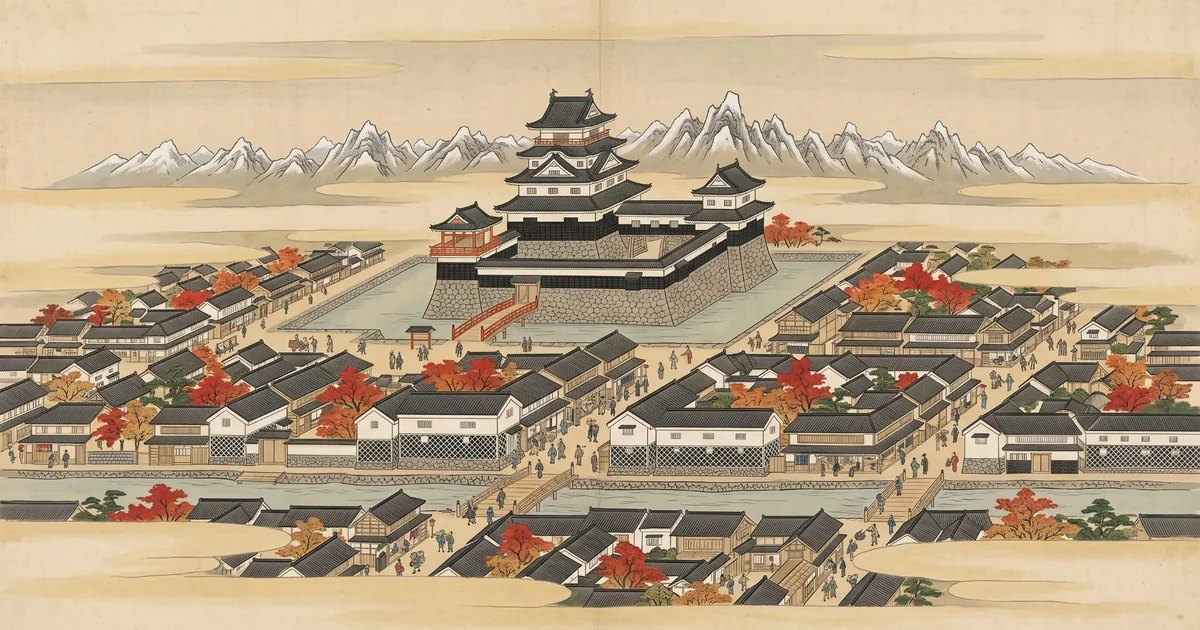
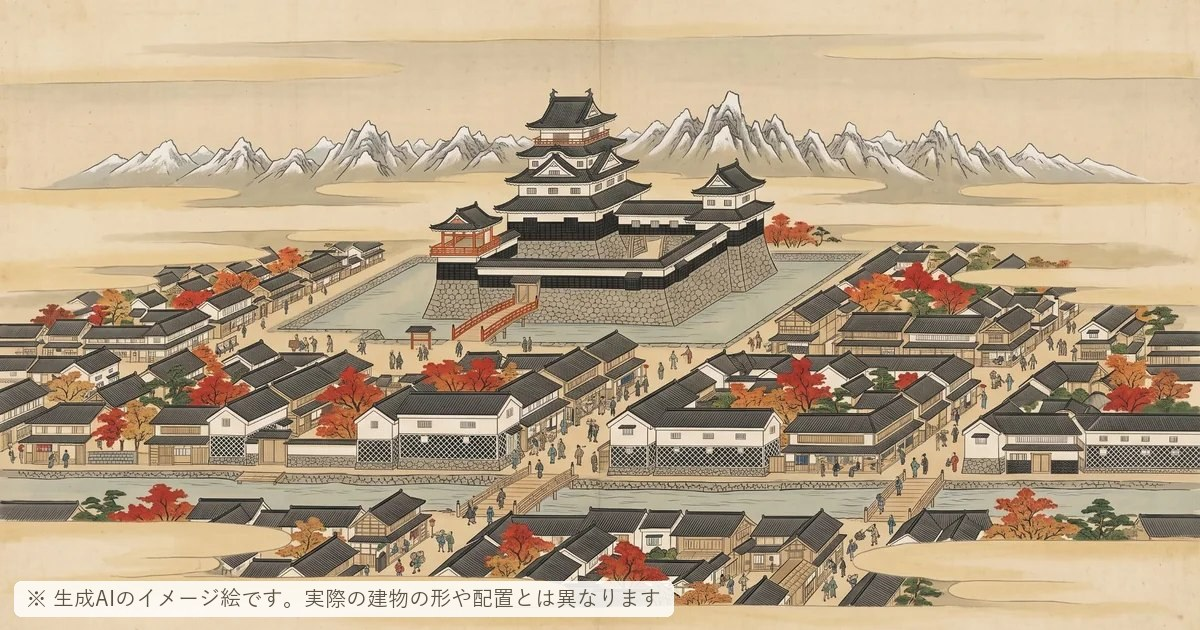
tabi: 松本まちあるき 表紙・裏表紙の絵に「生成AIのイメージ絵」の注記を追加
- 表紙・裏表紙の絵の左下に注記を重ねて表示。og画像にも入れた
- フッターに、絵が生成AIで作ったイメージであることを追記

Changed region(s): [[0.0, 0.9048, 0.5858, 0.9952]]

diff --git a/tabi/matsumoto-burari/index.html b/tabi/matsumoto-burari/index.html
@@ -442,6 +442,13 @@ details:nth-of-type(3n)   > summary::after{animation-delay:-2.7s}
   .twocol > *{margin:0}
   footer{max-width:920px;margin-left:auto;margin-right:auto}
 }
+
+/* 挿絵（表紙・裏表紙）の注記。絵の左下に重ねる。明るい絵にも暗い絵にも読めるよう、紙色の小さな札にする */
+.pic{position:relative}
+.imgnote{position:absolute;left:8px;bottom:8px;z-index:3;max-width:calc(100% - 16px);
+  font-family:var(--sans);font-size:10px;line-height:1.5;letter-spacing:0;color:#5a5243;
+  background:rgba(255,253,249,.88);padding:2px 8px;border-radius:4px;pointer-events:none}
+@media (min-width:900px){.imgnote{font-size:11.5px;left:14px;bottom:12px}}
 </style>
 </head>
 <body>
@@ -477,8 +484,9 @@ details:nth-of-type(3n)   > summary::after{animation-delay:-2.7s}
     <span class="ev">ぶらり旅</span>
     <span class="ev2">〜 松本温泉<span class="mk">♨</span>編 〜</span>
   </figcaption>
-  <img src="img/cover.webp" width="1200" height="670" fetchpriority="high"
+  <div class="pic"><img src="img/cover.webp" width="1200" height="670" fetchpriority="high"
        alt="松本城と城下町を空から見た絵図。堀と赤い橋、白壁となまこ壁の町並み、紅葉、奥に雪をかぶった北アルプス。">
+  <span class="imgnote">※ 生成AIのイメージ絵です。実際の建物の形や配置とは異なります</span></div>
 </figure>
 
 <header>
@@ -1634,8 +1642,9 @@ details:nth-of-type(3n)   > summary::after{animation-delay:-2.7s}
 </section>
 
 <figure class="cover back">
-  <img src="img/back.webp" width="1200" height="675" loading="lazy"
+  <div class="pic"><img src="img/back.webp" width="1200" height="675" loading="lazy"
        alt="夜の美ヶ原温泉。石畳の道沿いに宿の窓が暖かく灯り、湯気が立つ。背後は紅葉の山。">
+  <span class="imgnote">※ 生成AIのイメージ絵です。実際の建物の形や配置とは異なります</span></div>
   <figcaption>
     <span class="ev2">2026.11.07 SAT — 11.08 SUN</span>
     <span class="ev">美ヶ原温泉 追分屋旅館</span>
@@ -1647,7 +1656,8 @@ details:nth-of-type(3n)   > summary::after{animation-delay:-2.7s}
   営業時間・休館日・料金・駐車場・乗り場は、<b>2026年9月の時点</b>で、お店と施設の公式サイト、それに松本市の情報を一件ずつ見て確認したものです。<br>
   日の出・日の入りは松本市中心部の緯度経度からの計算値、気温は気象庁・松本観測点の平年値（1991〜2020年）、標高は国土地理院の標高データ、徒歩の距離と時間は各地点の座標から出した概算です。<br>
   バスの運賃は2026年3月に改定があったので、幅を持たせて書いています。<b>当日、念のため確認してください。</b><br>
-  地図は実際の緯度経度をもとに起こした略図です。通りの並びと位置関係は正しいですが、<b>縮尺は正確ではありません</b>。隣り合う店の前後関係など細かいところは、各カードの「地図」「ストリートビュー」から実地図でご確認ください。
+  地図は実際の緯度経度をもとに起こした略図です。通りの並びと位置関係は正しいですが、<b>縮尺は正確ではありません</b>。隣り合う店の前後関係など細かいところは、各カードの「地図」「ストリートビュー」から実地図でご確認ください。<br>
+  表紙・裏表紙の絵と、地図の下に敷いた絵は、生成AIで作った<b>イメージ</b>です。実際の建物の形や配置とは異なります（表紙・裏表紙の絵の左下にも注記を入れてあります）。
   <div class="qrbox">
     <svg viewBox="-2 -2 41 41" role="img" aria-label="この案内を開くQRコード">
       <path d="M0 0h7v1h-7zM8 0h1v1h-1zM10 0h1v1h-1zM13 0h2v1h-2zM17 0h1v1h-1zM19 0h3v1h-3zM24 0h5v1h-5zM30 0h7v1h-7zM0 1h1v1h-1zM6 1h1v1h-1zM18 1h2v1h-2zM22 1h1v1h-1zM25 1h2v1h-2zM30 1h1v1h-1zM36 1h1v1h-1zM0 2h1v1h-1zM2 2h3v1h-3zM6 2h1v1h-1zM10 2h1v1h-1zM12 2h1v1h-1zM15 2h1v1h-1zM17 2h2v1h-2zM21 2h2v1h-2zM24 2h1v1h-1zM26 2h2v1h-2zM30 2h1v1h-1zM32 2h3v1h-3zM36 2h1v1h-1zM0 3h1v1h-1zM2 3h3v1h-3zM6 3h1v1h-1zM8 3h1v1h-1zM10 3h6v1h-6zM18 3h1v1h-1zM22 3h1v1h-1zM25 3h4v1h-4zM30 3h1v1h-1zM32 3h3v1h-3zM36 3h1v1h-1zM0 4h1v1h-1zM2 4h3v1h-3zM6 4h1v1h-1zM8 4h1v1h-1zM10 4h1v1h-1zM13 4h1v1h-1zM15 4h1v1h-1zM17 4h2v1h-2zM23 4h1v1h-1zM26 4h3v1h-3zM30 4h1v1h-1zM32 4h3v1h-3zM36 4h1v1h-1zM0 5h1v1h-1zM6 5h1v1h-1zM8 5h1v1h-1zM10 5h1v1h-1zM16 5h2v1h-2zM19 5h2v1h-2zM24 5h1v1h-1zM28 5h1v1h-1zM30 5h1v1h-1zM36 5h1v1h-1zM0 6h7v1h-7zM8 6h1v1h-1zM10 6h1v1h-1zM12 6h1v1h-1zM14 6h1v1h-1zM16 6h1v1h-1zM18 6h1v1h-1zM20 6h1v1h-1zM22 6h1v1h-1zM24 6h1v1h-1zM26 6h1v1h-1zM28 6h1v1h-1zM30 6h7v1h-7zM8 7h1v1h-1zM10 7h4v1h-4zM15 7h2v1h-2zM19 7h6v1h-6zM26 7h1v1h-1zM28 7h1v1h-1zM0 8h1v1h-1zM4 8h1v1h-1zM6 8h6v1h-6zM13 8h1v1h-1zM15 8h2v1h-2zM20 8h1v1h-1zM23 8h2v1h-2zM26 8h1v1h-1zM28 8h6v1h-6zM36 8h1v1h-1zM0 9h1v1h-1zM2 9h3v1h-3zM8 9h1v1h-1zM17 9h3v1h-3zM21 9h1v1h-1zM23 9h2v1h-2zM26 9h3v1h-3zM32 9h4v1h-4zM0 10h1v1h-1zM5 10h2v1h-2zM11 10h2v1h-2zM15 10h1v1h-1zM18 10h2v1h-2zM23 10h5v1h-5zM31 10h1v1h-1zM2 11h3v1h-3zM7 11h1v1h-1zM10 11h2v1h-2zM15 11h9v1h-9zM29 11h1v1h-1zM31 11h2v1h-2zM34 11h2v1h-2zM0 12h1v1h-1zM3 12h1v1h-1zM5 12h2v1h-2zM10 12h1v1h-1zM13 12h2v1h-2zM17 12h2v1h-2zM20 12h5v1h-5zM26 12h5v1h-5zM33 12h4v1h-4zM0 13h1v1h-1zM4 13h2v1h-2zM8 13h2v1h-2zM12 13h2v1h-2zM15 13h2v1h-2zM18 13h1v1h-1zM20 13h2v1h-2zM23 13h1v1h-1zM27 13h2v1h-2zM32 13h2v1h-2zM0 14h1v1h-1zM2 14h1v1h-1zM5 14h3v1h-3zM13 14h3v1h-3zM17 14h1v1h-1zM23 14h2v1h-2zM26 14h2v1h-2zM29 14h1v1h-1zM31 14h5v1h-5zM1 15h1v1h-1zM5 15h1v1h-1zM11 15h1v1h-1zM13 15h1v1h-1zM15 15h1v1h-1zM17 15h3v1h-3zM22 15h3v1h-3zM26 15h3v1h-3zM31 15h2v1h-2zM34 15h2v1h-2zM0 16h4v1h-4zM6 16h1v1h-1zM8 16h2v1h-2zM11 16h1v1h-1zM13 16h3v1h-3zM18 16h2v1h-2zM22 16h1v1h-1zM24 16h1v1h-1zM29 16h3v1h-3zM33 16h2v1h-2zM36 16h1v1h-1zM0 17h1v1h-1zM7 17h1v1h-1zM11 17h2v1h-2zM16 17h2v1h-2zM19 17h2v1h-2zM23 17h1v1h-1zM25 17h5v1h-5zM32 17h2v1h-2zM35 17h1v1h-1zM2 18h1v1h-1zM5 18h4v1h-4zM13 18h1v1h-1zM16 18h1v1h-1zM18 18h1v1h-1zM20 18h1v1h-1zM23 18h1v1h-1zM25 18h1v1h-1zM27 18h1v1h-1zM29 18h1v1h-1zM31 18h4v1h-4zM2 19h2v1h-2zM5 19h1v1h-1zM7 19h3v1h-3zM11 19h1v1h-1zM13 19h2v1h-2zM17 19h2v1h-2zM21 19h1v1h-1zM26 19h2v1h-2zM31 19h2v1h-2zM34 19h2v1h-2zM1 20h1v1h-1zM3 20h4v1h-4zM8 20h1v1h-1zM10 20h1v1h-1zM13 20h1v1h-1zM15 20h1v1h-1zM17 20h1v1h-1zM19 20h4v1h-4zM24 20h1v1h-1zM26 20h2v1h-2zM29 20h3v1h-3zM34 20h1v1h-1zM0 21h6v1h-6zM7 21h4v1h-4zM12 21h1v1h-1zM14 21h2v1h-2zM17 21h2v1h-2zM23 21h1v1h-1zM25 21h1v1h-1zM27 21h3v1h-3zM31 21h2v1h-2zM35 21h1v1h-1zM0 22h1v1h-1zM4 22h3v1h-3zM10 22h1v1h-1zM13 22h1v1h-1zM15 22h1v1h-1zM18 22h1v1h-1zM20 22h6v1h-6zM27 22h2v1h-2zM31 22h4v1h-4zM0 23h1v1h-1zM2 23h1v1h-1zM10 23h3v1h-3zM14 23h2v1h-2zM20 23h2v1h-2zM27 23h1v1h-1zM29 23h1v1h-1zM31 23h2v1h-2zM34 23h2v1h-2zM0 24h5v1h-5zM6 24h3v1h-3zM10 24h3v1h-3zM14 24h1v1h-1zM16 24h1v1h-1zM19 24h2v1h-2zM29 24h3v1h-3zM33 24h2v1h-2zM36 24h1v1h-1zM0 25h1v1h-1zM4 25h1v1h-1zM11 25h1v1h-1zM13 25h2v1h-2zM17 25h3v1h-3zM21 25h3v1h-3zM25 25h1v1h-1zM27 25h3v1h-3zM31 25h2v1h-2zM3 26h1v1h-1zM5 26h3v1h-3zM9 26h3v1h-3zM14 26h2v1h-2zM18 26h2v1h-2zM21 26h5v1h-5zM27 26h1v1h-1zM31 26h1v1h-1zM34 26h1v1h-1zM3 27h2v1h-2zM9 27h1v1h-1zM12 27h2v1h-2zM15 27h3v1h-3zM19 27h3v1h-3zM23 27h1v1h-1zM27 27h1v1h-1zM29 27h1v1h-1zM32 27h1v1h-1zM34 27h1v1h-1zM36 27h1v1h-1zM0 28h3v1h-3zM4 28h4v1h-4zM9 28h2v1h-2zM12 28h2v1h-2zM17 28h1v1h-1zM21 28h2v1h-2zM24 28h1v1h-1zM26 28h1v1h-1zM28 28h5v1h-5zM34 28h1v1h-1zM36 28h1v1h-1zM8 29h1v1h-1zM10 29h1v1h-1zM12 29h1v1h-1zM15 29h2v1h-2zM18 29h1v1h-1zM21 29h3v1h-3zM25 29h1v1h-1zM27 29h2v1h-2zM32 29h1v1h-1zM35 29h1v1h-1zM0 30h7v1h-7zM8 30h1v1h-1zM11 30h1v1h-1zM13 30h5v1h-5zM23 30h2v1h-2zM26 30h1v1h-1zM28 30h1v1h-1zM30 30h1v1h-1zM32 30h1v1h-1zM0 31h1v1h-1zM6 31h1v1h-1zM10 31h1v1h-1zM12 31h4v1h-4zM17 31h2v1h-2zM22 31h3v1h-3zM26 31h1v1h-1zM28 31h1v1h-1zM32 31h3v1h-3zM0 32h1v1h-1zM2 32h3v1h-3zM6 32h1v1h-1zM8 32h2v1h-2zM12 32h1v1h-1zM14 32h1v1h-1zM18 32h1v1h-1zM22 32h3v1h-3zM28 32h7v1h-7zM36 32h1v1h-1zM0 33h1v1h-1zM2 33h3v1h-3zM6 33h1v1h-1zM9 33h5v1h-5zM16 33h2v1h-2zM19 33h2v1h-2zM23 33h1v1h-1zM25 33h1v1h-1zM27 33h1v1h-1zM29 33h3v1h-3zM36 33h1v1h-1zM0 34h1v1h-1zM2 34h3v1h-3zM6 34h1v1h-1zM10 34h3v1h-3zM16 34h1v1h-1zM18 34h1v1h-1zM20 34h2v1h-2zM23 34h1v1h-1zM25 34h1v1h-1zM27 34h4v1h-4zM33 34h1v1h-1zM0 35h1v1h-1zM6 35h1v1h-1zM10 35h3v1h-3zM17 35h2v1h-2zM21 35h2v1h-2zM26 35h1v1h-1zM29 35h1v1h-1zM32 35h1v1h-1zM34 35h2v1h-2zM0 36h7v1h-7zM8 36h1v1h-1zM10 36h1v1h-1zM12 36h1v1h-1zM15 36h3v1h-3zM19 36h4v1h-4zM24 36h1v1h-1zM26 36h2v1h-2zM29 36h1v1h-1zM31 36h1v1h-1zM34 36h3v1h-3z" fill="var(--ink)"/>
